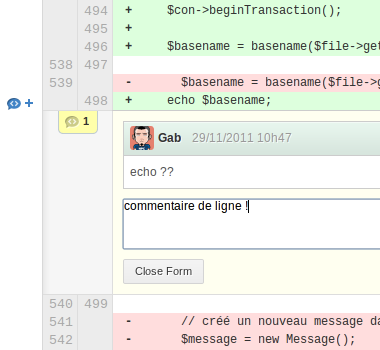
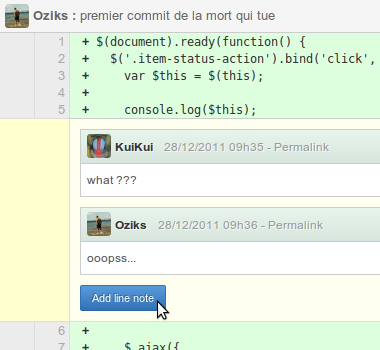
changement des screenshots (bye bye GitHub) et ajout du workflow

diff --git a/index.html b/index.html
@@ -13,11 +13,11 @@
         <li><a href="#screenshots">Screenshots</a></li>
         <li><a href="#introduction">Introduction</a></li>
         <li><a href="#features">Features</a></li>
+        <li><a href="#workflow">Workflow</a></li>
         <li><a href="#requirements">Requirements</a></li>
         <li><a href="#help">Help</a></li>
         <li><a href="#contributing">Contributing</a></li>
         <li><a href="#authors">Authors</a></li>
-        <li><a href="http://team-fusion.pmsipilot.com">Blog</a></li>
       </ul>
     </div>
     <a href="http://github.com/pmsipilot/Crew"><img style="position: fixed; top: 0; right: 0; border: 0;" src="http://s3.amazonaws.com/github/ribbons/forkme_right_darkblue_121621.png" alt="Fork me on GitHub" /></a>
@@ -53,11 +53,14 @@
         <li>Quickly see how many files/lines where added/deleted.</li>
         <li>Validate one file at a time or the whole feature.</li>
         <li>Feature, file and line comments.</li>
-        <li>Versatile notification system (<a href="http://campfirenow.com/">Campfire</a> included).</li>
+        <li>Versatile notification system (<a href="http://campfirenow.com/">Campfire</a> notifications included).</li>
         <li>Dashboard with comments and validations activity.</li>
         <li>User-friendly interface.</li>
       </ul>
 
+      <h2 id="workflow">Workflow</h2>
+      <img src="images/workflow.png" />
+      
       <h2 id="requirements">Requirements</h2>
       <p>
         Server requirements : PHP 5.2+, MySql 5+ and Git 1.6.6+<br />

diff --git a/css/style.css b/css/style.css
@@ -88,7 +88,7 @@ li {
 #menu li {
   float: left;
   list-style: none;
-  padding: 0 32px 0 0;
+  padding: 0 27px 0 0;
 }
 #container {
   margin: 0 auto;
